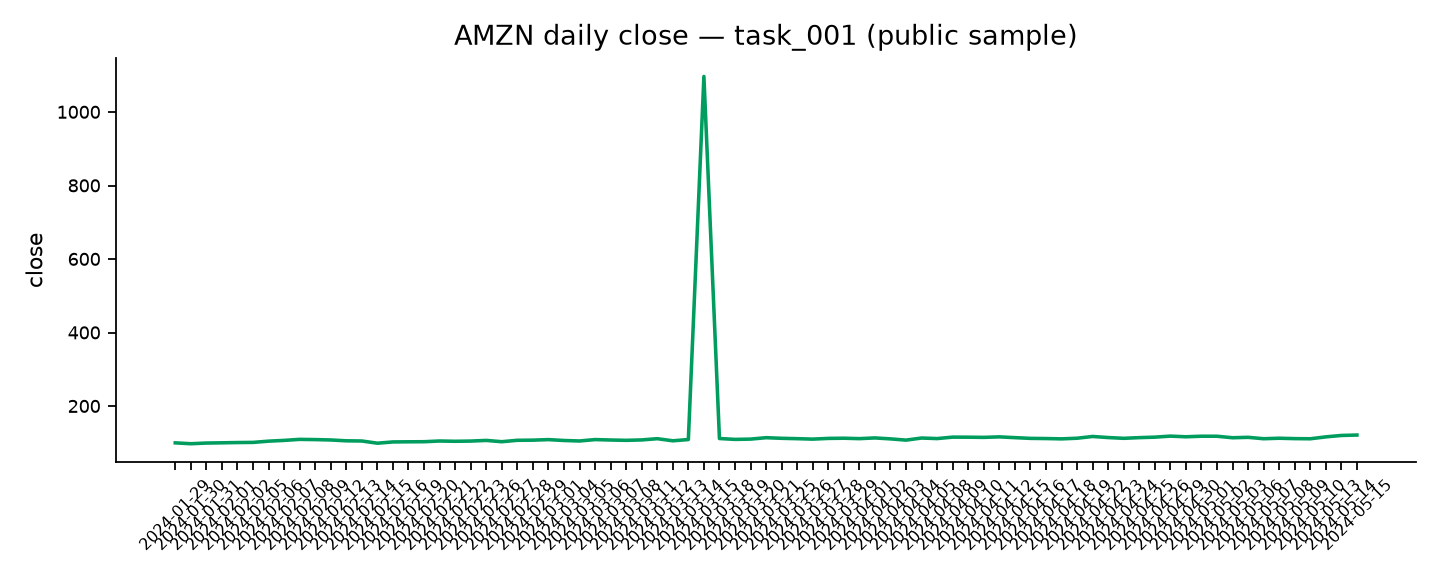
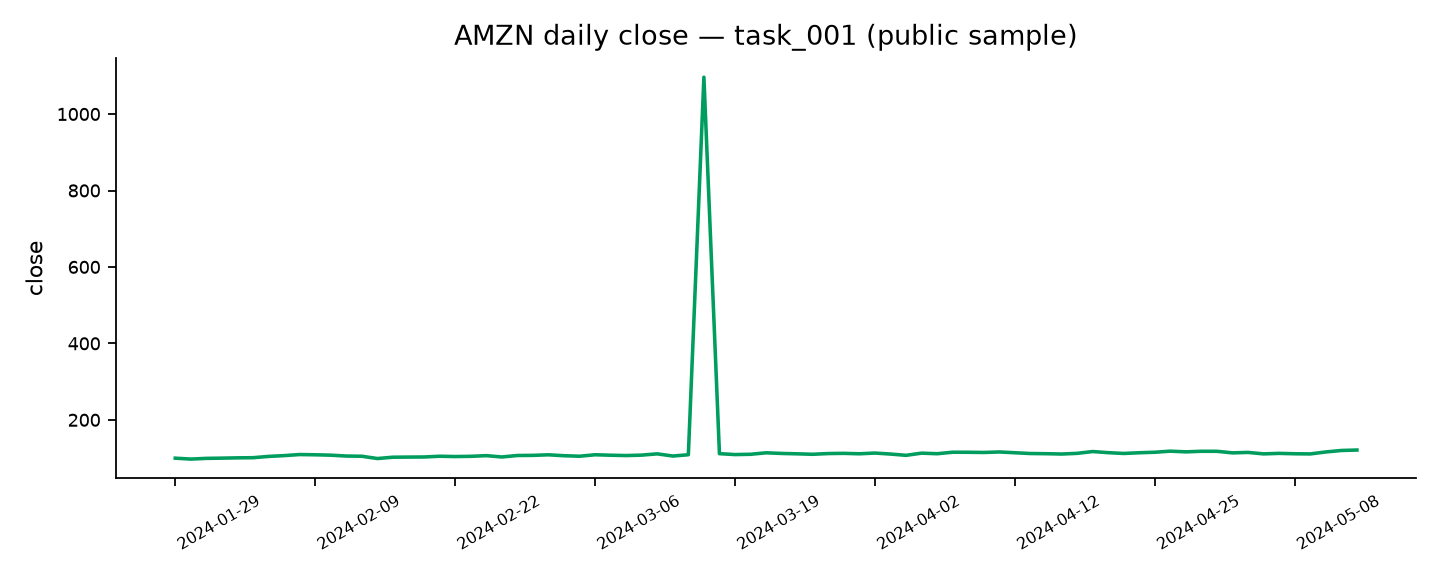
Make sample chart date axes legible and regenerate manifest

diff --git a/scripts/make_sample_charts.py b/scripts/make_sample_charts.py
@@ -96,7 +96,10 @@ def main() -> None:
         ax.plot(frame["date"], frame["close"], color="#009d5e", lw=1.6)
         ax.set_title(f"{frame['ticker'].iloc[0]} daily close — {task_id} (public sample)")
         ax.set_ylabel("close")
-        ax.tick_params(axis="x", labelrotation=45, labelsize=7)
+        # Show at most ~8 date labels so the axis stays legible.
+        step = max(1, len(frame) // 8)
+        ax.set_xticks(range(0, len(frame), step))
+        ax.set_xticklabels(frame["date"].iloc[::step], rotation=30, ha="left", fontsize=7)
         ax.tick_params(axis="y", labelsize=8)
         ax.spines[["top", "right"]].set_visible(False)
         fig.tight_layout()
